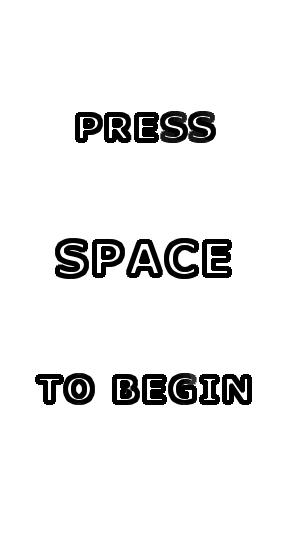
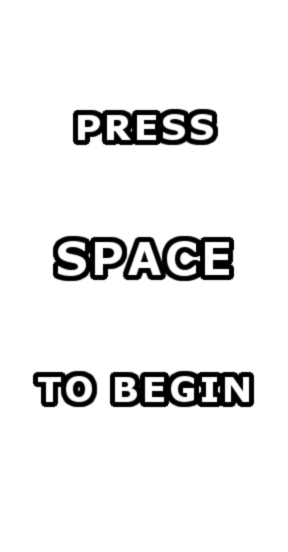
Game is operable. Still to do: bells and whistles (i.e. choose available sizes, difficulty settings, etc.).

diff --git a/src/gui/Gui.java b/src/gui/Gui.java
@@ -9,8 +9,14 @@ import TetrisBlock.Polyomino;
 import java.awt.Dimension;
 import java.awt.Graphics;
 import java.awt.event.ActionEvent;
+import java.awt.event.InputEvent;
+import java.awt.event.KeyEvent;
 import java.awt.image.BufferedImage;
+import java.io.IOException;
 import java.util.ArrayList;
+import java.util.logging.Level;
+import java.util.logging.Logger;
+import javax.imageio.ImageIO;
 import javax.swing.AbstractAction;
 import javax.swing.Action;
 import javax.swing.JFrame;
@@ -29,16 +35,18 @@ public class Gui {
     private static JFrame frame;
     private static JPanel mainPanel;
     private static Action upAction, leftAction, rightAction, spaceAction, downAction;
-    private static long t;
-    private static long totalT;
+    private static long waitTime;
     private static boolean running;
-    private static BufferedImage bi;
+    private static BufferedImage foreground;
+    private static final Object LOCK = new Object();
+    
+    public Gui(){}
     
     public static void main(String[] args) {
         frame = new JFrame("Tetris");
         frame.add(makePanel());
         frame.setPreferredSize(new Dimension(Field.F_WIDTH*24+2*Field.B_WIDTH+6,
-                (Field.F_HEIGHT+2)*24+Field.B_WIDTH+28));
+                Field.F_HEIGHT*24+Field.B_WIDTH+28));
         frame.setResizable(false);
         frame.setDefaultCloseOperation(JFrame.EXIT_ON_CLOSE);
         
@@ -46,16 +54,35 @@ public class Gui {
         frame.setVisible(true);
         frame.setLocationRelativeTo(null);
         
-        totalT=400;
+        waitTime=400;
         running=false;
+        setForeground("TetrisStartScreenV1.png");
         
+        
+        mainPanel.repaint();
         while(true){
-            while (!running);
-            t = System.currentTimeMillis();
-            while (System.currentTimeMillis()-t<totalT);
-            if (!field.act(curP)) curP=getRanPoly();
-            mainPanel.repaint();
-            totalT=400;
+            synchronized (LOCK){
+                while (!running) try {
+                    LOCK.wait();
+                } catch (InterruptedException ex) {
+                    Logger.getLogger(Gui.class.getName()).log(Level.SEVERE, null, ex);
+                }
+            }
+            try {
+                mainPanel.repaint();
+                Thread.sleep(waitTime/8);
+                synchronized (LOCK){
+                    LOCK.wait(waitTime*7/8);
+                }
+            } catch (InterruptedException ex) {
+                Logger.getLogger(Gui.class.getName()).log(Level.SEVERE, null, ex);
+            }
+            if (!field.act(curP)){
+                curP=getRanPoly();
+                if (field.lose()){
+                    reset();
+                }
+            }
         }
     }
 
@@ -66,6 +93,7 @@ public class Gui {
                 super.paintComponent(g);
                 curP.paint(g);
                 field.paint(g);
+                if (foreground!=null) g.drawImage(foreground, 0, -24, this);
             }
         };
         upAction = new UpAction();
@@ -90,6 +118,7 @@ public class Gui {
         mainPanel.getInputMap().put(KeyStroke.getKeyStroke("S"), "doDownAction");
         mainPanel.getActionMap().put("doDownAction", downAction);
         mainPanel.getInputMap().put(KeyStroke.getKeyStroke("SPACE"), "doSpaceAction");
+        mainPanel.getInputMap().put(KeyStroke.getKeyStroke(KeyEvent.VK_SHIFT, InputEvent.SHIFT_DOWN_MASK), "doSpaceAction");
         mainPanel.getActionMap().put("doSpaceAction", spaceAction);
         mainPanel.setPreferredSize(new Dimension(300,500));
         curP=getRanPoly();
@@ -103,57 +132,88 @@ public class Gui {
     private static class UpAction extends AbstractAction {
         @Override
         public void actionPerformed(ActionEvent up){
-            field.rotate(curP);
-            mainPanel.repaint();
+            synchronized (LOCK){
+                if (!running) return;
+                field.rotate(curP);
+                mainPanel.repaint();
+            }
         }
     }
     private static class LeftAction extends AbstractAction {
         @Override
         public void actionPerformed(ActionEvent left){
-            field.translate(curP,-1,0);
-            mainPanel.repaint();
+            synchronized (LOCK){
+                if (!running) return;
+                field.translate(curP,-1,0);
+                mainPanel.repaint();
+            }
         }
     }
     private static class RightAction extends AbstractAction {
         @Override
         public void actionPerformed(ActionEvent right){
-            field.translate(curP,1,0);
-            mainPanel.repaint();
-        }
-    }
-    private static class SpaceAction extends AbstractAction {
-        @Override
-        public void actionPerformed(ActionEvent space){
-            
-            if (!running){
-                running=true;
-                t=System.currentTimeMillis();
-                
-                return;
+            synchronized (LOCK){
+                if (!running) return;
+                field.translate(curP,1,0);
+                mainPanel.repaint();
             }
-            
-            while (field.translate(curP,0,-1));
-            field.takePolyomino(curP);
-            curP = getRanPoly();
-            mainPanel.repaint();
-            t=System.currentTimeMillis();
         }
     }
     private static class DownAction extends AbstractAction {
         @Override
         public void actionPerformed(ActionEvent down){
-            totalT=100;
+            synchronized (LOCK){
+                LOCK.notifyAll();
+            }
+        }
+    }
+    private static class SpaceAction extends AbstractAction {
+        @Override
+        public void actionPerformed(ActionEvent space){
+            synchronized (LOCK){
+                if (!running){
+                    running=true;
+                    foreground=null;
+                    LOCK.notifyAll();
+                    return;
+                }
+                mainPanel.repaint();
+                while (field.translate(curP,0,-1));
+                field.takePolyomino(curP);
+                curP = getRanPoly();
+                if (field.lose()){
+                    reset();
+                }
+            }
         }
     }
     
     
     private static Polyomino getRanPoly(){
-        PolyominoInputStream i = new PolyominoInputStream((int)(Math.random()*6)+1);
+        int s = (int)(Math.random()*6)+1;
+        PolyominoInputStream i = new PolyominoInputStream(s);
         ArrayList<boolean[][]> all = i.readAll();
         
         int n = (int)(Math.random()*all.size());
         
         
-        return new Polyomino(Field.F_WIDTH/2, Field.F_HEIGHT, all.get(n), (float)n/all.size());
+        return new Polyomino(Field.F_WIDTH/2, Field.F_HEIGHT+3, all.get(n), (float)n/all.size());
+    }
+    
+    private static void setForeground(String name){
+        try {
+            foreground=ImageIO.read(new Gui().getClass().getResource("/gui/"+name));
+        } catch (IOException ex) {
+            Logger.getLogger(Gui.class.getName()).log(Level.SEVERE, null, ex);
+        }
+    }
+    
+    private static void reset(){
+        synchronized (LOCK){
+            running=false;
+            setForeground("TetrisStartScreenV1.png");
+            mainPanel.repaint();
+            field = new Field();
+        }
     }
 }

diff --git a/src/gui/Field.java b/src/gui/Field.java
@@ -8,7 +8,6 @@ import TetrisBlock.Block;
 import TetrisBlock.Polyomino;
 import java.awt.Component;
 import java.awt.Graphics;
-import java.awt.Graphics2D;
 import java.awt.Point;
 import java.awt.image.BufferedImage;
 import java.io.IOException;
@@ -29,7 +28,11 @@ public class Field extends Component{
     
     public Field(){
         contents = new Block[F_HEIGHT+Gui.MAX_PSIZE][F_WIDTH];
-        generateBufferedImage();
+        try {
+            bi = ImageIO.read(getClass().getResource("/gui/TetrisBackground.png"));
+        } catch (IOException ex) {
+            Logger.getLogger(Field.class.getName()).log(Level.SEVERE, null, ex);
+        }
     }
     
     public void takePolyomino(Polyomino p){
@@ -103,25 +106,14 @@ public class Field extends Component{
                 }
             }
         }
-        g.drawImage(bi, 0, 0, this);
+        g.drawImage(bi, 0, -48, this);
     }
     
-    public void generateBufferedImage(){
-        bi = new BufferedImage(Field.F_WIDTH*24+2*Field.B_WIDTH,
-                (Field.F_HEIGHT+2)*24+Field.B_WIDTH, BufferedImage.TYPE_INT_ARGB);
-        BufferedImage b=null;
-        try {
-            b = ImageIO.read(getClass().getResource("/TetrisBlock/TetrisBlock.png"));
-        } catch (IOException ex) {
-            Logger.getLogger(Block.class.getName()).log(Level.SEVERE, null, ex);
+    public boolean lose(){
+        boolean lose=false;
+        for (Block b:contents[F_HEIGHT]){
+            lose = lose || b!=null;
         }
-        Graphics2D g = bi.createGraphics();
-        for (int i=0; i<(Field.F_WIDTH*24+2*Field.B_WIDTH); i+=24){
-            g.drawImage(b, i, (Field.F_HEIGHT)*24+2*Field.B_WIDTH, this);
-        }
-        for (int i=0; i<(Field.F_HEIGHT+2)*24+Field.B_WIDTH; i+=24){
-            g.drawImage(b, 0, i, this);
-            g.drawImage(b, Field.F_WIDTH*24+Field.B_WIDTH, i, this);
-        }
+        return lose;
     }
 }

diff --git a/src/TetrisBlock/Block.java b/src/TetrisBlock/Block.java
@@ -2,7 +2,6 @@ package TetrisBlock;
 
 
 import gui.Field;
-import gui.Gui;
 import java.awt.Color;
 import java.awt.Component;
 import java.awt.Graphics;
@@ -26,7 +25,6 @@ public class Block extends Component{
     
     private BufferedImage bi;
     private Point loc;
-    private float hue;
     
     public Block(int xLoc, int yLoc, float hue) {
         try {
@@ -36,7 +34,6 @@ public class Block extends Component{
         }
         
         setHueSaturation(bi, hue, 1);
-        this.hue=hue;
         this.loc=new Point(xLoc, yLoc);
     }
         
@@ -60,7 +57,7 @@ public class Block extends Component{
     @Override
     public void paint(Graphics g){
         g.drawImage(bi, bi.getWidth()*loc.x+Field.B_WIDTH,
-                bi.getWidth()*(Field.F_HEIGHT-loc.y+1), null);
+                bi.getWidth()*(Field.F_HEIGHT-loc.y-1), null);
     }
     
     public Point getTranslateLoc(int dx, int dy){
